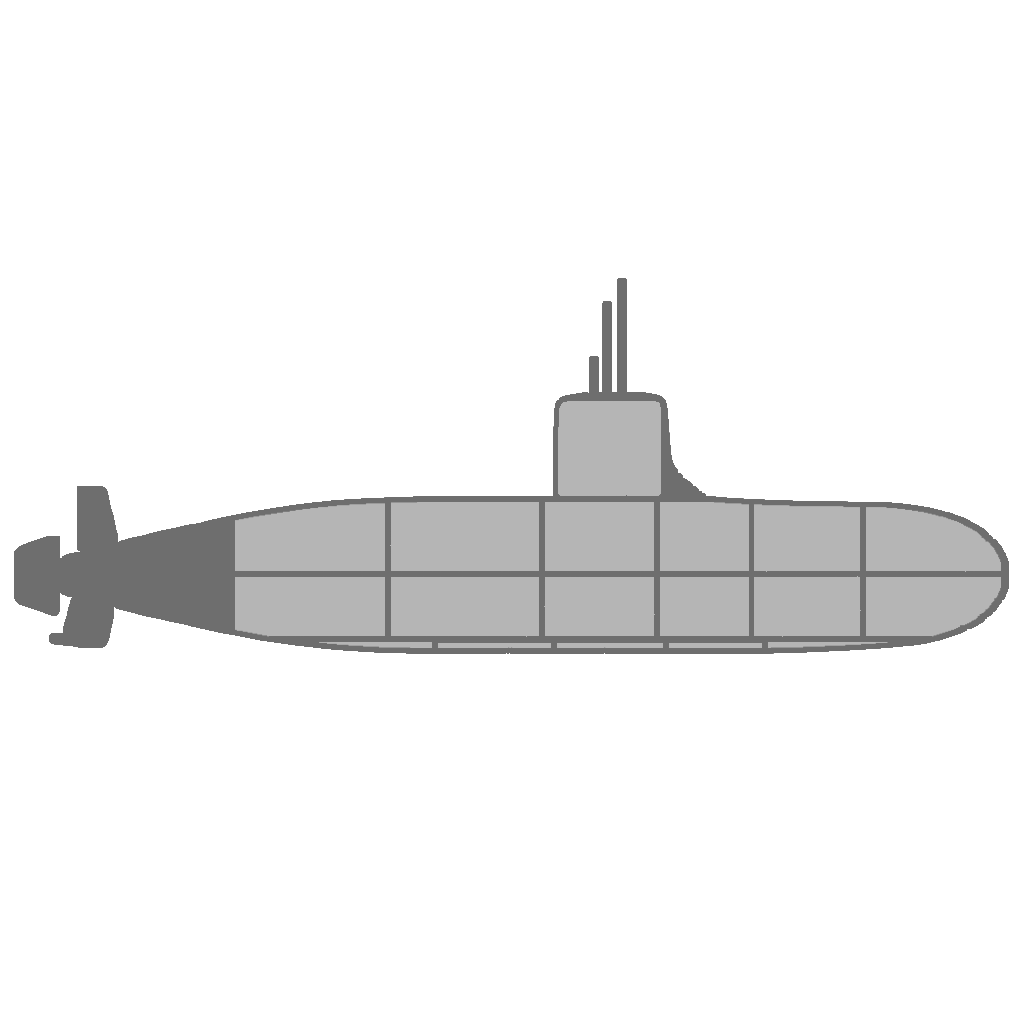
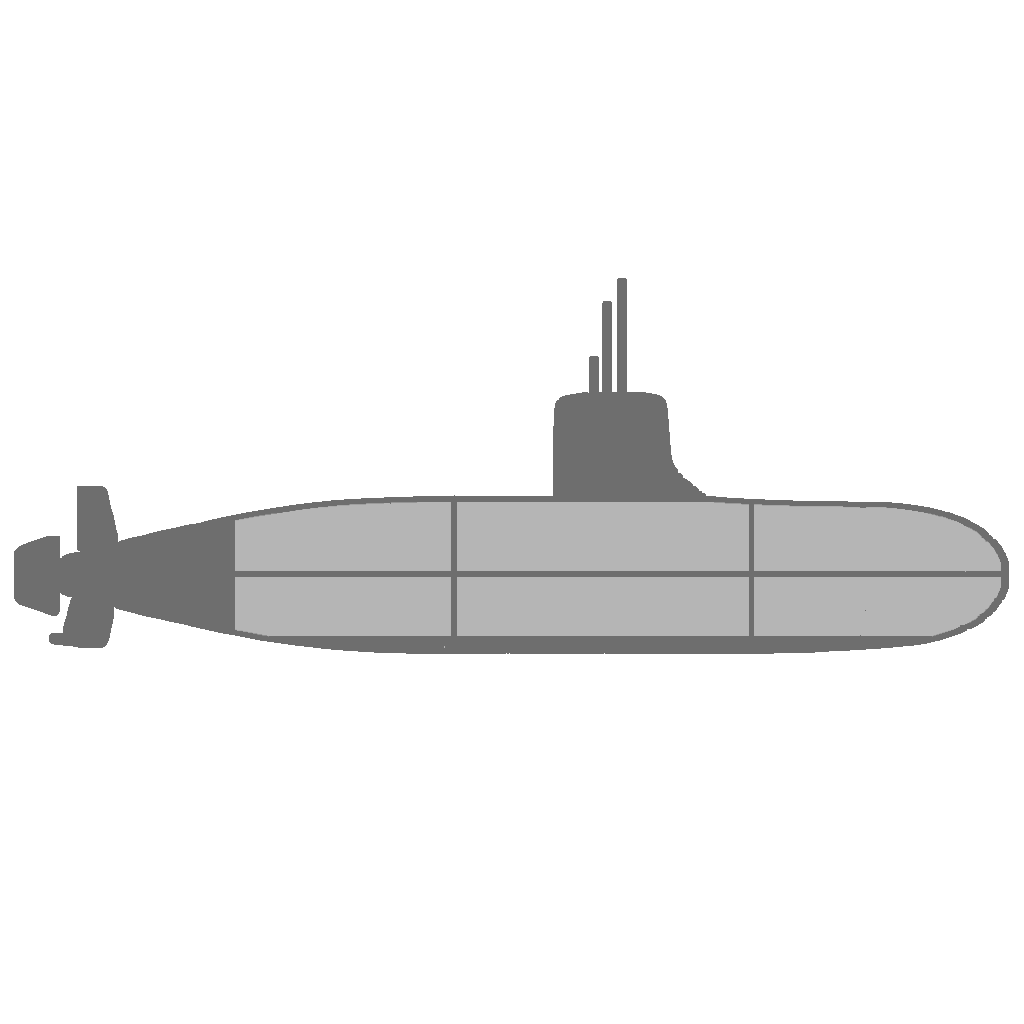
Add my own changes

Changed region(s): [[0.3438, 0.375, 0.8438, 0.6562]]

diff --git a/README.md b/README.md
@@ -38,4 +38,3 @@ WAS KÖNNEN WIR JETZT MACHEN?
 2. Fighting system
 3. Meine schreckliche Icons nochmal malen damit es besser aussiet
 4. Ladders pollishen - sie sind zu 95% gefixed, aber es gibt jittering sometimes
-